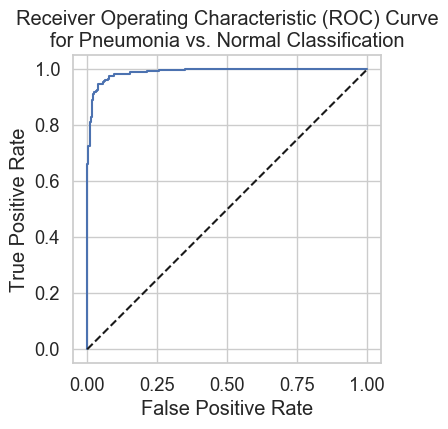
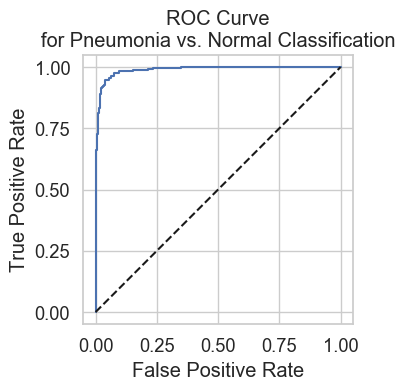
modified binary classification script

diff --git a/code/binary_classification_evaluation.py b/code/binary_classification_evaluation.py
@@ -147,7 +147,7 @@ fig_np_scores.savefig(table_file_path,
 ###############################################################################
 
 # create a figure
-fig_roc = plt.figure(figsize=(6.4, 4))
+fig_roc = plt.figure(figsize=(3.5, 3.5))
 
 # get axis
 ax_roc = fig_roc.gca()
@@ -164,11 +164,18 @@ ax_roc.plot([0, 1],
 # set labels and title
 ax_roc.set_xlabel('False Positive Rate')
 ax_roc.set_ylabel('True Positive Rate')
-ax_roc.set_title('Receiver Operating Characteristic (ROC) Curve'
+ax_roc.set_title('ROC Curve'
                  + '\nfor Pneumonia vs. Normal Classification')
 
 # configure axes
 ax_roc.axis('square')
+roc_ticks = [0,
+             0.25,
+             0.5,
+             0.75,
+             1]
+ax_roc.set_yticks(roc_ticks)
+ax_roc.set_xticks(roc_ticks)
 
 # save the ROC curve image file
 roc_curve_file_path = (FIGURE_OUTPUT_PATH
@@ -184,7 +191,7 @@ fig_roc.savefig(roc_curve_file_path,
 ###############################################################################
 
 # create a figure
-fig_prc = plt.figure(figsize=(6.4, 4))
+fig_prc = plt.figure(figsize=(3.5, 3.5))
 
 # get axis
 ax_prc = fig_prc.gca()
@@ -211,6 +218,13 @@ ax_prc.axis('square')
 buffer = 0.05
 ax_prc.set_xlim([0 - buffer, 1 + buffer])
 ax_prc.set_ylim([0 - buffer, 1 + buffer])
+prc_ticks = [0,
+             0.25,
+             0.5,
+             0.75,
+             1]
+ax_prc.set_yticks(prc_ticks)
+ax_prc.set_xticks(prc_ticks)
 
 # save the precision-recall curve image file
 pr_curve_file_path = (FIGURE_OUTPUT_PATH
